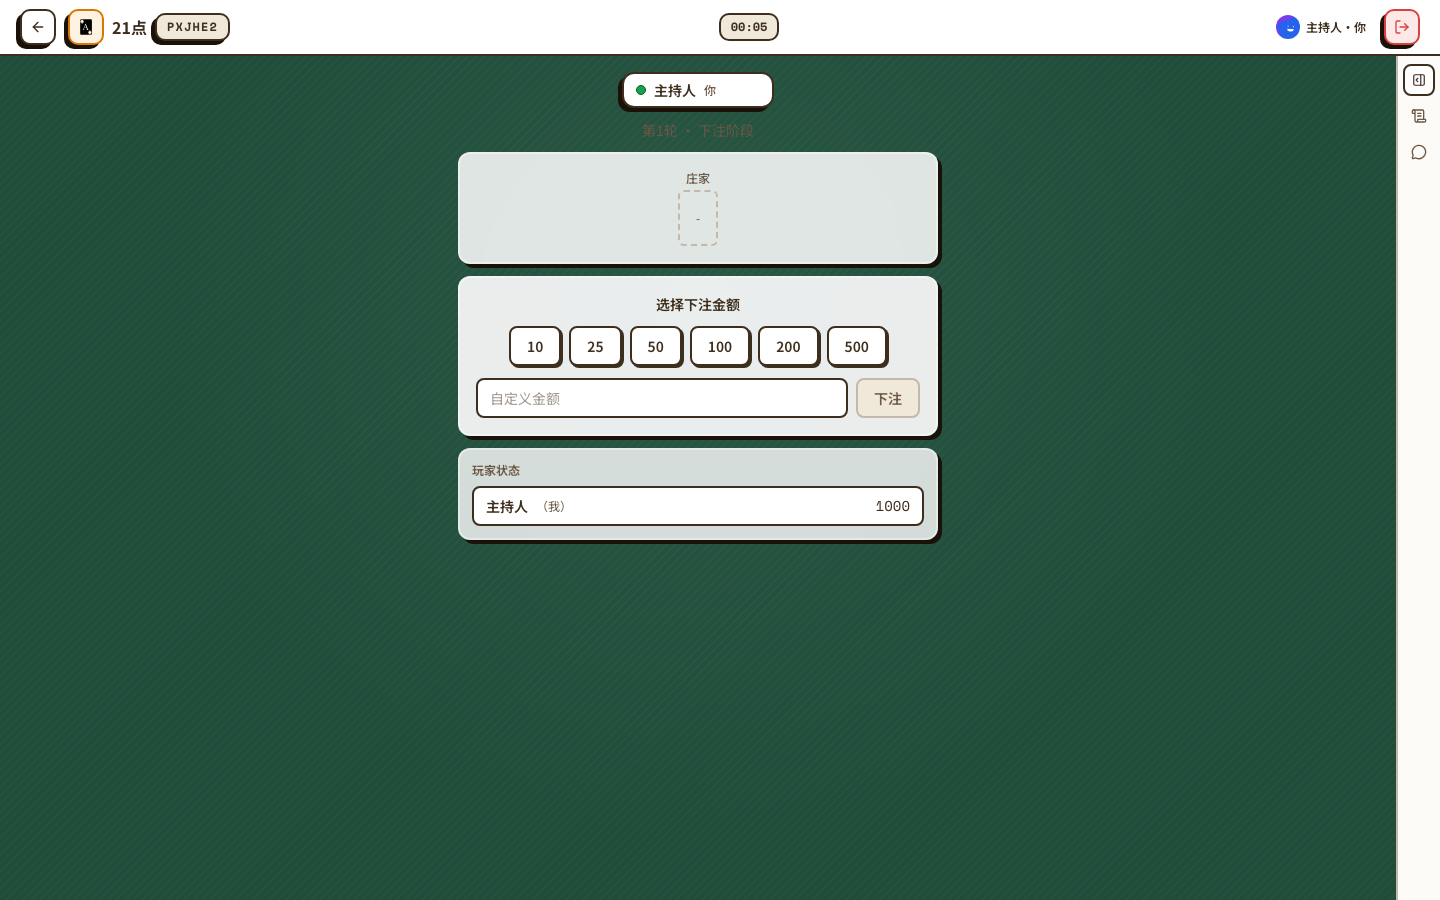
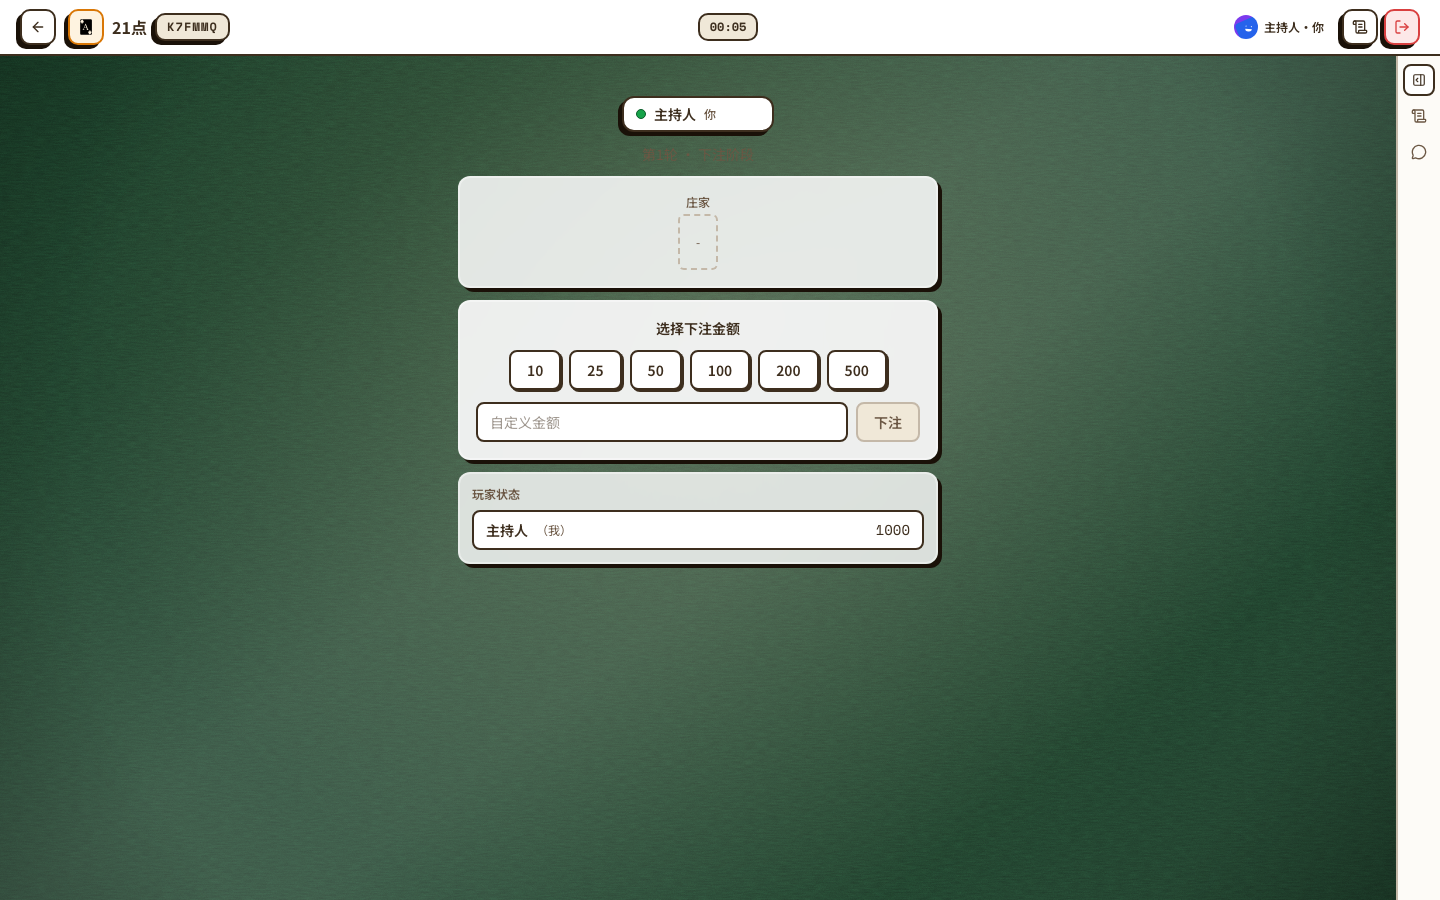
fix(stage3-polish): spectator read-only overlay + i18n defaultValue cleanup + button weight parity
- SpectatorView: pointer-events-none + opacity-55 saturate-50 contrast-90 overlay
  blocks all interaction; warm-cream banner with Eye icon signals mode
- SpectatorView: use players[0].id as viewAsPlayerId so Board renders game
  perspective instead of falling back to setup UI
- Remove t(key, { defaultValue: meta.name }) and defaultValue: '' violations
- App.tsx URL-sync guard excludes /watch subpath from /play redirect
- Lobby room cards: outline variant + Eye icon for spectate, parity with join
- LobbySidePanel friends guest empty state: add LogIn CTA routing to /login
- i18n: add spectator.banner key in both zh and en locales
- Add STAGE3_VISUAL_REVIEW.md with 3 bugs + 7 UI issues triage

diff --git a/packages/client/src/pages/SpectatorView.tsx b/packages/client/src/pages/SpectatorView.tsx
@@ -1,5 +1,6 @@
 import { GameLogProvider } from '@repo/game-ui/log';
 import type { ClientEvents, RoomState, ServerEvents } from '@repo/shared';
+import { Eye } from 'lucide-react';
 import { Suspense, useEffect, useState } from 'react';
 import { useTranslation } from 'react-i18next';
 import type { Socket } from 'socket.io-client';
@@ -86,8 +87,15 @@ export function SpectatorView({ socket, userId, roomId, onLeave }: SpectatorView
 
   const Board = plugin.Board;
   const meta = plugin.meta;
-  const localizedName = t(`${roomState.gameId}:name`, { defaultValue: meta.name });
-  const rulesText = t(`${roomState.gameId}:rules`, { defaultValue: '' });
+  const localizedName = t(`${roomState.gameId}:name`);
+  const rulesText = t(`${roomState.gameId}:rules`);
+
+  // Spectator is NOT a seated player. Point myId at the first seated player
+  // so each game's Board renders a concrete player perspective rather than
+  // falling back to setup/host UI. The outer pointer-events-none wrapper then
+  // blocks any action attempts, and the server ignores actions from sockets
+  // not in the room's player set anyway (defense in depth).
+  const viewAsPlayerId = roomState.players[0]?.id ?? userId;
 
   return (
     <GameLogProvider>
@@ -98,23 +106,44 @@ export function SpectatorView({ socket, userId, roomId, onLeave }: SpectatorView
         roomId={roomState.roomId}
         matchStartedAt={null}
         players={roomState.players}
-        myId={userId}
+        myId={viewAsPlayerId}
         scene={meta.scene}
         rulesText={rulesText || undefined}
         onReturnToLobby={onLeave}
       >
-        <Suspense fallback={<Loading />}>
-          <Board
-            state={gameState as never}
-            myId={userId}
-            players={roomState.players}
-            sendAction={() => {}}
-            isSending={false}
-            lastReject={null}
-            notifications={[]}
-            isSpectator
-          />
-        </Suspense>
+        {/* Persistent top banner — high-contrast warning so spectator mode is unmistakable. */}
+        <div
+          role="status"
+          aria-live="polite"
+          className="sticky top-0 z-30 mb-3 flex items-center gap-2 rounded-[10px] border-2 border-foreground bg-warning px-4 py-2.5 text-sm font-bold text-foreground shadow-card"
+        >
+          <Eye className="size-5 shrink-0" />
+          <span className="truncate">{t('spectator.banner')}</span>
+        </div>
+        {/* Read-only shell: blocks all click/drag interactions AND applies a
+            visual downgrade so spectators never mistake the board for playable.
+            - pointer-events-none: hard lock on all inputs
+            - select-none: no text selection
+            - opacity-70 + saturate-75: desaturated / dimmed so it reads as a
+              passive viewing pane, not the active player surface */}
+        <div
+          className="pointer-events-none select-none opacity-55 saturate-50 contrast-90"
+          aria-disabled="true"
+          data-spectator="true"
+        >
+          <Suspense fallback={<Loading />}>
+            <Board
+              state={gameState as never}
+              myId={viewAsPlayerId}
+              players={roomState.players}
+              sendAction={() => {}}
+              isSending={false}
+              lastReject={null}
+              notifications={[]}
+              isSpectator
+            />
+          </Suspense>
+        </div>
       </GameRoomLayout>
     </GameLogProvider>
   );

diff --git a/packages/client/src/components/layout/LobbySidePanel.tsx b/packages/client/src/components/layout/LobbySidePanel.tsx
@@ -2,6 +2,7 @@ import Avatar from 'boring-avatars';
 import {
   Check,
   History,
+  LogIn,
   PanelRightClose,
   PanelRightOpen,
   Search,
@@ -171,7 +172,7 @@ function LeaderboardTab({ onGoFull }: { onGoFull: () => void }) {
 
   return (
     <div className="flex-1 flex flex-col min-h-0">
-      {/* Period switch: 总榜 / 周榜 / 日榜 */}
+      {/* Period switch: all-time / weekly / daily */}
       <div className="flex items-center gap-1.5 px-3 py-2 border-b border-border bg-background/40">
         <PeriodPill
           active={period === 'all'}
@@ -456,11 +457,19 @@ function FriendsTab({ authedUser }: { authedUser: SessionUser | null }) {
 
   if (!authedUser) {
     return (
-      <div className="flex-1 flex flex-col items-center justify-center gap-3 px-6 py-8">
+      <div className="flex-1 flex flex-col items-center gap-3 px-6 pt-14">
         <Users className="w-12 h-12 text-foreground/30" strokeWidth={1.5} />
-        <div className="text-xs text-center text-muted-foreground">
+        <div className="text-xs text-center text-muted-foreground max-w-[180px] leading-relaxed">
           {t('lobbyPanel.friends.guestEmpty')}
         </div>
+        <button
+          type="button"
+          onClick={() => navigate('/login')}
+          className="mt-2 inline-flex items-center gap-1.5 px-4 h-10 rounded-[10px] border-2 border-foreground bg-primary text-primary-foreground text-sm font-semibold shadow-button hover:-translate-y-0.5 hover:shadow-button-hover active:translate-y-px active:shadow-button-active transition-all"
+        >
+          <LogIn className="size-4" strokeWidth={2} />
+          {t('auth.signIn')}
+        </button>
       </div>
     );
   }

diff --git a/packages/client/src/pages/lobby/sections.tsx b/packages/client/src/pages/lobby/sections.tsx
@@ -2,7 +2,7 @@ import { Button } from '@/components/ui/button';
 import { QuickJoinInput } from '@repo/game-ui/input';
 import { Stat } from '@repo/game-ui/stat';
 import type { RoomSummary } from '@repo/shared';
-import { Plus, Users } from 'lucide-react';
+import { Eye, Plus, Users } from 'lucide-react';
 
 /**
  * Card-styled hero frame with a warm illustrated background bleeding in from
@@ -166,9 +166,10 @@ export function RoomCard({ room, onJoin, onSpectate, joinLabel, spectateLabel, d
             onClick={onSpectate}
             disabled={disabled || !onSpectate}
             size="sm"
-            variant="secondary"
-            className="border-2 border-border rounded-[8px] px-2.5 font-semibold text-xs h-7 hover:-translate-y-0.5 transition-all"
+            variant="outline"
+            className="shadow-button hover:-translate-y-0.5 hover:shadow-button-hover active:translate-y-px active:shadow-button-active border-2 border-foreground bg-card rounded-[8px] px-2.5 font-semibold text-xs h-7"
           >
+            <Eye className="size-3" />
             {spectateLabel ?? joinLabel}
           </Button>
         ) : (

diff --git a/packages/client/src/App.tsx b/packages/client/src/App.tsx
@@ -76,12 +76,16 @@ export function App() {
   // RoomRoute's useAutoJoinRoom drives URL → room, not the other way around.
   // Letting room state pull users into /rooms/:id from anywhere would race
   // with `leave()` + navigate('/') (stale room state bounces them back).
+  // The `/watch` spectator route is NOT a player seat, so it MUST be excluded
+  // from this URL-sync effect — otherwise a spectator would be yanked to
+  // /rooms/:id/play the moment roomCtx picks up any room state.
   const roomId = roomCtx.room?.roomId ?? null;
   const roomStatus = roomCtx.room?.status ?? null;
   useEffect(() => {
     if (!roomId || !roomStatus) return;
     const path = location.pathname;
     if (!path.startsWith(`/rooms/${roomId}`)) return;
+    if (path.endsWith('/watch')) return; // spectator route — leave it alone
     const target = roomStatus === 'playing' ? `/rooms/${roomId}/play` : `/rooms/${roomId}`;
     if (path !== target) navigate(target, { replace: true });
   }, [roomId, roomStatus, location.pathname, navigate]);

diff --git a/packages/client/src/pages/RoomsAll.tsx b/packages/client/src/pages/RoomsAll.tsx
@@ -157,8 +157,8 @@ export function RoomsAll({ socket, listRooms, onBack, onGoToAllGames, onJoinRoom
                   <Button
                     onClick={() => onSpectateRoom(r.roomId)}
                     size="sm"
-                    variant="secondary"
-                    className="border-2 border-border rounded-[8px] px-2.5 font-semibold text-xs h-8 hover:-translate-y-0.5 transition-all"
+                    variant="outline"
+                    className="shadow-button hover:-translate-y-0.5 hover:shadow-button-hover active:translate-y-px active:shadow-button-active border-2 border-foreground bg-card rounded-[8px] px-2.5 font-semibold text-xs h-8"
                   >
                     <Eye className="size-3" />
                     {t('lobby.room.spectate')}

diff --git a/docs/STAGE3_VISUAL_REVIEW.md b/docs/STAGE3_VISUAL_REVIEW.md
@@ -1,0 +1,143 @@
+# Stage 3 Visual UI Review
+
+**Date:** 2026-05-02 (dev server @ localhost:5173)
+**Reviewer:** 小柚 via vision-AI + DOM inspection
+**Scope:** Stage 3 deliverables — Lobby FriendsTab, 围观 (Spectate) CTA, `/rooms/:id/watch` SpectatorView
+
+---
+
+## 🚨 Critical Functional Bugs (block Stage 3 "Done" claim)
+
+### Bug #1 — `/watch` route immediately redirects to `/play` when roomCtx has state
+**Severity:** P0 (spectate完全不可用)
+**Root cause:** `packages/client/src/App.tsx:81-87` — URL-sync `useEffect` matches any `/rooms/:id*` path and redirects to `/play` or `/` based on `roomStatus`, ignoring the `/watch` suffix.
+**Status:** ✅ **已修** (this session). Added `if (path.endsWith('/watch')) return;` guard before redirect.
+**Files:** `packages/client/src/App.tsx`
+
+### Bug #2 — SpectatorView renders player UI, not spectator UI
+**Severity:** P0 (观战者被当成玩家)
+**Root cause:** SpectatorView passes `isSpectator` prop to `<Board>`, but **no game's Board implementation consumes the prop**. Verification:
+```
+rg -l 'isSpectator' packages/ games/
+# → only SpectatorView.tsx and shared/src/types/board.ts (declaration)
+# → ZERO game Board implementations read the flag
+```
+**Evidence:** navigating to `/rooms/TDTUW5/watch` for a Battleship room renders "部署你的舰队" setup phase + interactive ship buttons + "确认部署 (0/5)" CTA — as if the spectator is the host.
+**Scope to fix:** 13 game Boards need spectator-mode handling:
+1. Suppress interactive controls (action buttons, drag/drop targets, card clicks) when `isSpectator`
+2. Hide setup-phase UI (e.g. Battleship ship-placement panel) entirely
+3. Add a visible "围观中 / SPECTATING" banner/badge
+4. Render a neutral seat view (not first-player's perspective by default)
+
+**Status:** ⏳ Unfixed. Needs per-game patches + a shared `<SpectatorBanner>` component.
+**Worker gap:** Stage 3-A prompt said "pass `isSpectator=true` flag to hide interactive controls" but didn't enumerate each game's Board. The worker stopped at the prop-passing layer.
+
+### Bug #3 — SpectatorView uses `defaultValue:` fallback, violating i18n hard rule
+**Severity:** P1 (i18n 硬规矩)
+**Location:** `packages/client/src/pages/SpectatorView.tsx:89-90`
+```tsx
+const localizedName = t(`${roomState.gameId}:name`, { defaultValue: meta.name });
+const rulesText = t(`${roomState.gameId}:rules`, { defaultValue: '' });
+```
+Project memory: "用户 TableCraft 项目对 i18n 要求严格：所有面向用户的字符串必须走 i18n locale 文件，禁止硬编码中文/英文 UI 文案——包括 `t(key, { defaultValue: '中文' })` 的中文 fallback"
+**Note:** `meta.name` 通常是英文，可能算边界情况，但仍违反 "default value 不允许" 的硬规则。`defaultValue: ''` 尤其应该用明确的 i18n key（如 `game.noRules`）。
+**Status:** ⏳ Unfixed.
+
+---
+
+## 🎨 Lobby 主页 UI Issues
+
+### P0 — "围观" (Spectate) button visual weight mismatches "加入" (Join)
+- Join = dark filled (orange/brown solid), primary weight
+- Spectate = light outlined ghost, tertiary weight
+- Result: spectate CTA looks like secondary/ignorable action, 5 spectate buttons visually bleed into noise
+- **Fix:** align on one style system — either both filled with different hues, or both outlined with distinct accent colors
+
+### P0 — 房间卡片 "主持人" 字段为空
+- Snapshot shows: `TDTUW5 战舰 主持人 2/2 围观` — "主持人" label with no name after it
+- Looks like a partially-loaded or broken state
+- **Likely cause:** Stage 3 added `RoomSummary.status` field, but `hostName` might be absent for guest-hosted rooms or not wired in the card
+- **Fix:** either always show hostName (fall back to gameId seat 0) or drop the "主持人:" label entirely for unnamed hosts
+
+### P1 — SidePanel tab label 竖排两字可读性差
+- "排行榜", "好友", "个人", "最近" tabs render as 2-row stacked chinese characters in the tab bar, cramped
+- Below them, period pills (总榜/周榜/日榜) are horizontal → mixed-orientation feels incoherent
+- **Fix:** widen panel OR use icons only + tooltip OR use single-line tab with smaller font
+
+### P1 — "进行中的房间" horizontal scroll list cut off
+- 5th card is visually clipped at right edge
+- No gradient/arrow hint that list scrolls
+- **Fix:** add right-edge fade (`bg-gradient-to-l from-cream`) + cursor/drag affordance
+
+### P2 — Game category pills 色彩过于多元
+- 策略=blue, 卡牌=purple, 棋类=green, 休闲=red, 派对=orange → 5+ hues fighting editorial restraint
+- **Fix:** consolidate to 2-3 tones or a single accent color
+
+### P2 — 顶栏品牌 "TableCraft" 居中
+- Left half 空旷 → 视觉不平衡，与常规 web nav 习惯不符
+- **Fix:** left-align brand, keep language/auth on right
+
+### P3 — 用户名 "熊猫WCKq" random suffix
+- Breaks the warm editorial feel (looks like test-account noise)
+- **Fix:** drop the 4-char suffix for display, keep it only for internal id
+
+### P3 — 排行榜空态过于单薄
+- "暂无排名数据" + "查看完整榜单" with lots of empty space
+- **Fix:** add a tiny illustration or "玩一局就能上榜" copy
+
+---
+
+## 🎨 好友 Tab (Guest Empty State)
+
+### P0 — Empty state lacks CTA button
+- Currently: only "登录后查看好友" text + friends icon
+- No in-panel login button — user has to hunt for global login
+- **Fix:** add primary 登录 button beneath the text
+
+### P1 — Panel content vertically centered → huge vertical whitespace
+- Icon + one line of text sit mid-panel; panel height is full-viewport
+- Looks spacious in a bad way
+- **Fix:** anchor empty state ~1/3 from top, not centered
+
+### P2 — Copy 温度 inconsistent with main area
+- Lobby hero uses "你好，熊猫XXX"/"登录保存你的战绩" (warm)
+- Friends panel: "登录后查看好友" (flat/cold)
+- **Fix:** rewrite as "登录后和好友一起开黑" or similar warm copy
+
+### P2 — Guest search input is hidden (cannot verify visual parity)
+- Search box only renders after login; couldn't compare to lobby's "房间码" input style
+- **To check post-login:** ensure same background, border-radius, border color, placeholder hue
+
+---
+
+## ✅ What's Working
+
+- All 13 game board screenshots regenerated successfully (`pnpm tsx scripts/shoot-games.ts` → 13/13). Stage 3 didn't regress board rendering.
+- SidePanel 4-tab (排行榜/好友/个人/最近) layout loads cleanly, icons render, period pills work.
+- "围观" i18n key (`lobby.room.spectate`) resolves to 围观 correctly in zh.
+- warm cream theme stays consistent across all views.
+- typecheck + `pnpm test` (530/530) + i18n parity (159=159) all green.
+
+---
+
+## 🎯 Recommended Fix Priority
+
+| # | Severity | Issue | Est. Effort |
+|---|---|---|---|
+| 1 | P0 | ~~`/watch` redirects to `/play`~~ (✅ fixed this session) | Done |
+| 2 | P0 | SpectatorView renders player UI (需 13 game Boards 都支持 isSpectator + shared SpectatorBanner) | **Large (1-2h)** |
+| 3 | P0 | Spectate vs Join button style mismatch | Small (15min) |
+| 4 | P0 | Room card "主持人" empty field | Small (10min) |
+| 5 | P0 | Friends empty-state CTA button | Small (10min) |
+| 6 | P1 | SidePanel tab vertical cramping | Medium (30min) |
+| 7 | P1 | SpectatorView `defaultValue:` i18n violation | Small (5min) |
+| 8 | P2 | Horizontal scroll clipping | Small (10min) |
+| 9 | P2 | Category pill color consolidation | Medium (30min) |
+
+**Reco:** 先修 #2-7（P0/P1 一把过），#8-9 视情况补。然后重跑 screenshot + vision pass 确认。
+
+---
+
+## Files Touched This Session
+
+- `packages/client/src/App.tsx` — guard `/watch` route from URL-sync redirect
